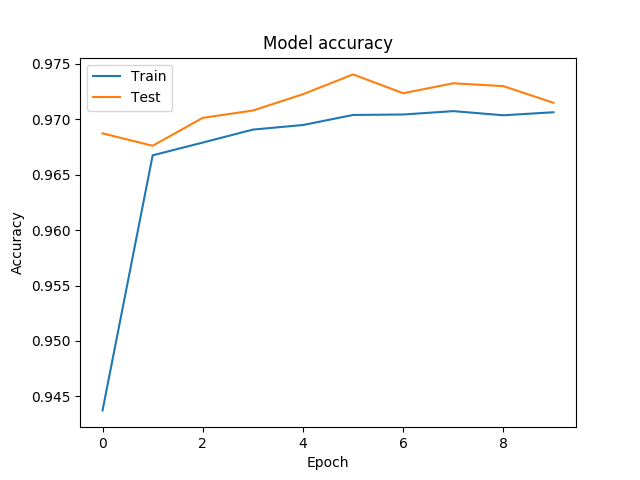
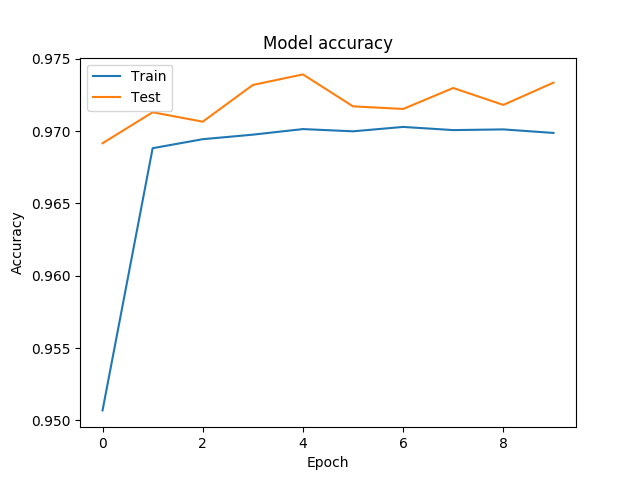
added training for all 3 models to train files

diff --git a/cnn_train_base.py b/cnn_train_base.py
@@ -21,14 +21,22 @@ def display_image(image, wait_time=0):
     cv2.imshow('', image)
     cv2.waitKey(wait_time)
 
-def preprocess_image(image):
-    '''Preprocesses the image'''
-    image = np.reshape(image, (28,28))
-    # Convert to BGR because the Conv2D layers don't like grayscale
-    return cv2.cvtColor(image, cv2.COLOR_GRAY2BGR)
+def rotate_image(image, angle, rand_amt=0):
+    """Rotate an image by to the specified angle. Note that an
+    incremented angle rotates counter-clockwise.
 
-def preprocess_images(images):
-    return np.array([preprocess_image(im) for im in images])
+    rand(-rand_amt, rand_amt) is added to the angle before
+    rotation."""
+    image = np.reshape(image, (28,28))
+    image_center = tuple(np.array(image.shape[1::-1]) / 2)
+    angle += random.randint(-rand_amt, rand_amt)
+    rot_mat = cv2.getRotationMatrix2D(image_center, angle, 1.0)
+    result = cv2.warpAffine(image, rot_mat, image.shape[1::-1], flags=cv2.INTER_LINEAR)
+    # Convert to BGR because the Conv2D layers don't like grayscale
+    return cv2.cvtColor(result, cv2.COLOR_GRAY2BGR)
+
+def rotate_images(images, angle, rand_amt=0):
+    return np.array([rotate_image(im, angle, rand_amt) for im in images])
 
 def get_model():
     """Returns the CNN model to be used for training."""
@@ -79,7 +87,9 @@ if __name__ == '__main__':
     x_train, y_train_i, x_test, y_test_i = [x[:int(len(x)*PERCENT_OF_DATA)] for x in [x_train, y_train_i, x_test, y_test_i]]
 
     # Rotate images
-    x_train, x_test = [preprocess_images(data) for data in [x_train, x_test]]
+    x_train_0, x_test_0 = [rotate_images(data, 0, 0) for data in [x_train, x_test]]
+    x_train_10, x_test_10 = [rotate_images(data, 0, 10) for data in [x_train, x_test]]
+    x_train_30, x_test_30 = [rotate_images(data, 0, 30) for data in [x_train, x_test]]
 
     # Turn labels into one-hots
     y_train, y_test = [np.zeros((len(y), 10)) for y in [y_train_i, y_test_i]]
@@ -96,15 +106,27 @@ if __name__ == '__main__':
               batch_size=BATCH_SIZE,
               epochs=NUM_EPOCHS,
               verbose=1,
-              validation_data=(x_test, y_test),
+              validation_data=(x_test_0, y_test),
               callbacks=[checkpointer]
               )
 
     plot_accuracy(history)
     plot_loss(history)
 
-    # Evaluate its performance
-    predictions = model.predict(x_test)
+    # Evaluate its performance 0 degrees
+    predictions = model.predict(x_test_0)
     num_correct = len([i for i, pred in enumerate(predictions) if np.argmax(pred) == np.argmax(y_test[i])])
     percent_correct = num_correct / float(len(predictions))
-    print('Test set prediction accuracy: {}%'.format(percent_correct * 100))
+    print('Test set 0 degree prediction accuracy: {}%'.format(percent_correct * 100))
+
+    # Evaluate its performance 10 degrees
+    predictions = model.predict(x_test_10)
+    num_correct = len([i for i, pred in enumerate(predictions) if np.argmax(pred) == np.argmax(y_test[i])])
+    percent_correct = num_correct / float(len(predictions))
+    print('Test set 10 degree prediction accuracy: {}%'.format(percent_correct * 100))
+
+    # Evaluate its performance 30 degrees
+    predictions = model.predict(x_test_30)
+    num_correct = len([i for i, pred in enumerate(predictions) if np.argmax(pred) == np.argmax(y_test[i])])
+    percent_correct = num_correct / float(len(predictions))
+    print('Test set 30 degree prediction accuracy: {}%'.format(percent_correct * 100))

diff --git a/cnn_train.py b/cnn_train.py
@@ -90,7 +90,9 @@ if __name__ == '__main__':
     x_train, y_train_i, x_test, y_test_i = [x[:int(len(x)*PERCENT_OF_DATA)] for x in [x_train, y_train_i, x_test, y_test_i]]
 
     # Rotate images
-    x_train, x_test = [rotate_images(data, 0, rand_amt=degree) for data in [x_train, x_test]]
+    x_train_0, x_test_0 = [rotate_images(data, 0, 0) for data in [x_train, x_test]]
+    x_train_10, x_test_10 = [rotate_images(data, 0, 10) for data in [x_train, x_test]]
+    x_train_30, x_test_30 = [rotate_images(data, 0, 30) for data in [x_train, x_test]]
 
     # Turn labels into one-hots
     y_train, y_test = [np.zeros((len(y), 10)) for y in [y_train_i, y_test_i]]
@@ -98,7 +100,7 @@ if __name__ == '__main__':
     y_test[np.arange(len(y_test)), y_test_i] = 1.0
 
     # Display some training images (e.g. to check rotation)
-    [display_image(x) for x in x_train[:10]]
+    # [display_image(x) for x in x_train[:10]]
 
     # Train the model, saving only the best weights
     checkpointer = ModelCheckpoint(WEIGHTS_FILENAME.format(degree), verbose=1, save_best_only=True)
@@ -107,15 +109,27 @@ if __name__ == '__main__':
               batch_size=BATCH_SIZE,
               epochs=NUM_EPOCHS,
               verbose=1,
-              validation_data=(x_test, y_test),
+              validation_data=(x_test_10, y_test),
               callbacks=[checkpointer]
               )
 
     plot_accuracy(history, degree)
     plot_loss(history, degree)
 
-    # Evaluate its performance
-    predictions = model.predict(x_test)
+    # Evaluate its performance 0 degrees
+    predictions = model.predict(x_test_0)
     num_correct = len([i for i, pred in enumerate(predictions) if np.argmax(pred) == np.argmax(y_test[i])])
     percent_correct = num_correct / float(len(predictions))
-    print('Test set prediction accuracy: {}%'.format(percent_correct * 100))
+    print('Test set 0 degree prediction accuracy: {}%'.format(percent_correct * 100))
+
+    # Evaluate its performance 10 degrees
+    predictions = model.predict(x_test_10)
+    num_correct = len([i for i, pred in enumerate(predictions) if np.argmax(pred) == np.argmax(y_test[i])])
+    percent_correct = num_correct / float(len(predictions))
+    print('Test set 10 degree prediction accuracy: {}%'.format(percent_correct * 100))
+
+    # Evaluate its performance 30 degrees
+    predictions = model.predict(x_test_30)
+    num_correct = len([i for i, pred in enumerate(predictions) if np.argmax(pred) == np.argmax(y_test[i])])
+    percent_correct = num_correct / float(len(predictions))
+    print('Test set 30 degree prediction accuracy: {}%'.format(percent_correct * 100))

diff --git a/cnn_test_weights.py b/cnn_test_weights.py
@@ -35,7 +35,7 @@ def rotate_images(images, angle, rand_amt=0):
     return np.array([rotate_image(im, angle, rand_amt) for im in images])
 
 if __name__ == '__main__':
-    degree = 0
+    degree = 30
 
     # Load data
     x_train, y_train_i = load_mnist('data/fashion', 'train')
@@ -55,6 +55,7 @@ if __name__ == '__main__':
     y_train, y_test = [np.zeros((len(y), 10)) for y in [y_train_i, y_test_i]]
     y_train[np.arange(len(y_train)), y_train_i] = 1.0
     y_test[np.arange(len(y_test)), y_test_i] = 1.0
+    
     # Display some training images (e.g. to check rotation)
     # [display_image(x) for x in x_train[:10]]
 

diff --git a/mlp_test_weights.py b/mlp_test_weights.py
@@ -59,7 +59,7 @@ if __name__ == '__main__':
     # [display_image(x) for x in x_train[:10]]
 
     model = load_model(
-        './weights/mlp_best_weights_30',
+        './weights/mlp_best_weights_base',
         custom_objects=None,
         compile=True
     )
